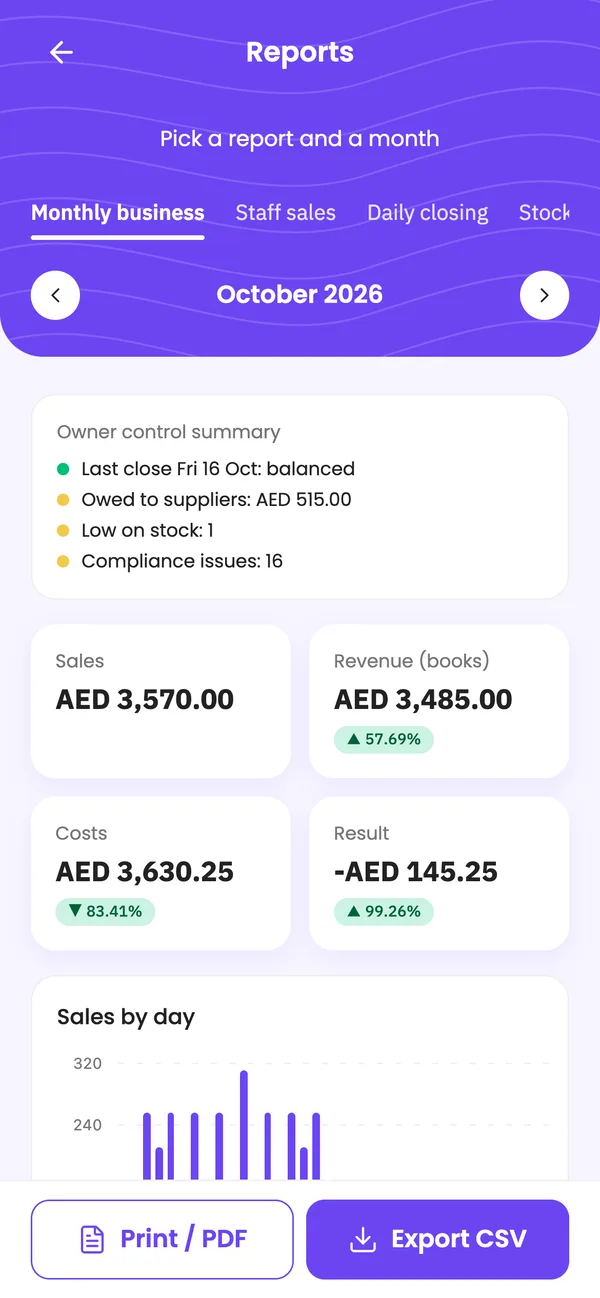
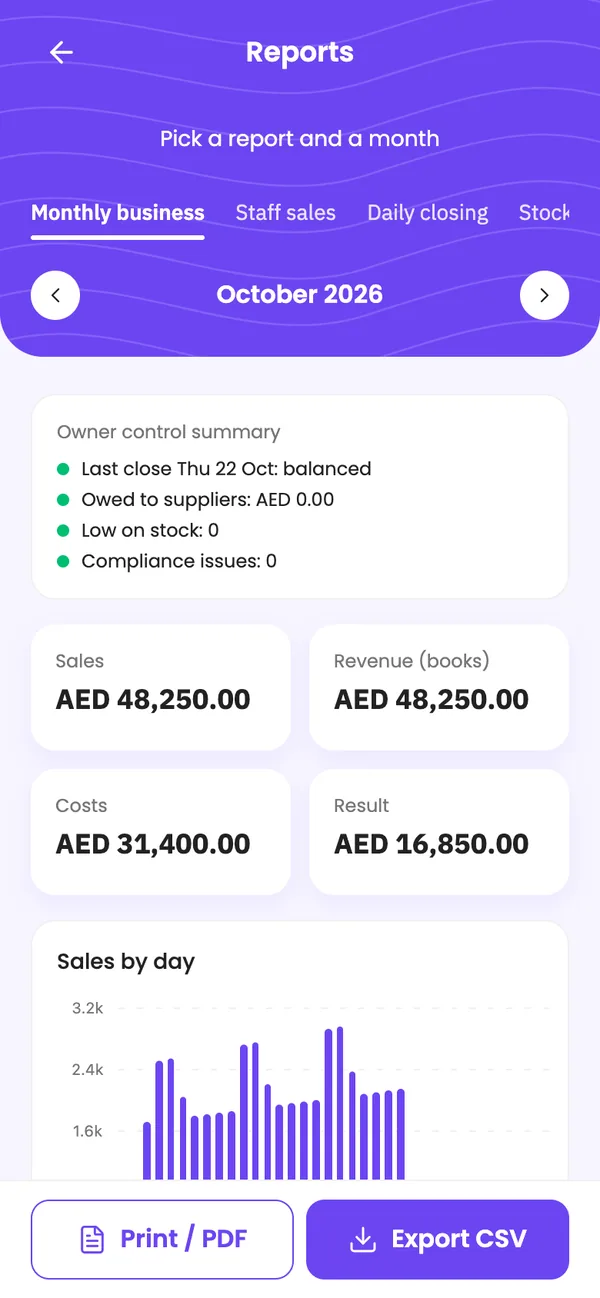
1.3 Website reports picture shows a healthy month (captured from the real app)

diff --git a/scripts/landing-shots/reports.spec.ts b/scripts/landing-shots/reports.spec.ts
@@ -1,0 +1,112 @@
+/**
+ * The website's reports picture (website brief 1.3: the old one showed a losing month): a demo barber shop's
+ * October with healthy numbers, captured from the real app. Sales AED 48,250 spread over the month, costs AED 31,400
+ * (rent, staff housing, bills…), result + AED 16,850, today's cash close balanced. Writes
+ * assets/images/landing/gents-reports.png (convert to the 600 × 1298 WebP with scripts/landing-shots/to-webp.py).
+ * Run on the local stack: npx playwright test -c scripts/landing-shots/playwright.config.ts reports
+ */
+import { admin, createOwner, dubaiDate, sellCustom } from '../../e2e/support/api';
+import { expect, test } from '../../e2e/support/fixtures';
+import { id, ownerOn } from '../../e2e/support/ui';
+
+const SALES = 4_825_000; // AED 48,250.00
+const EXPENSES: [string, number][] = [
+  ['rent', 1_500_000],
+  ['staff_accommodation', 600_000],
+  ['licences', 240_000],
+  ['electricity', 145_000],
+  ['marketing', 120_000],
+  ['staff_welfare', 120_000],
+  ['cleaning', 90_000],
+  ['transport', 80_000],
+  ['tea_food', 62_000],
+  ['repairs', 60_000],
+  ['internet_phone', 45_000],
+  ['uniforms', 40_000],
+  ['water', 38_000],
+]; // AED 31,400.00
+const PRICES = [3_500, 4_500, 5_500, 6_000, 8_000, 9_500, 12_000, 15_000];
+
+test('reports: a healthy month', async ({ page }) => {
+  test.setTimeout(900_000);
+  const owner = await createOwner('gents', { openingCash: 300_000, businessName: 'Al Barsha Gents' });
+  const today = dubaiDate(0);
+  const days = Number(today.slice(8, 10));
+  const month = today.slice(0, 8);
+  // Busier at the weekend (Fri/Sat), a little growth through the month; the day totals add up to the month exactly.
+  const weights = Array.from({ length: days }, (_, i) => {
+    const dow = new Date(`${month}${String(i + 1).padStart(2, '0')}T12:00:00Z`).getUTCDay();
+    return (dow === 5 || dow === 6 ? 1.45 : dow === 0 ? 1.15 : 1) * (1 + i * 0.012);
+  });
+  const sumW = weights.reduce((a, b) => a + b, 0);
+  let left = SALES;
+  for (let d = 0; d < days; d += 1) {
+    let target = d === days - 1 ? left : Math.round((SALES * weights[d]!) / sumW / 500) * 500;
+    left -= target;
+    const ids: string[] = [];
+    let n = 0;
+    while (target > 0) {
+      const price = Math.min(PRICES[(d * 7 + n * 3) % PRICES.length]!, target);
+      const sale = await sellCustom(owner.client, owner, n % 3 === 0 ? { card: price } : { cash: price });
+      ids.push(sale.sale_id);
+      target -= price;
+      n += 1;
+    }
+    const date = `${month}${String(d + 1).padStart(2, '0')}`;
+    if (date !== today) {
+      for (const q of [
+        admin.from('sales').update({ business_date: date }).in('id', ids),
+        admin.from('journal_entries').update({ business_date: date }).in('source_id', ids),
+      ]) {
+        const { error } = await q;
+        if (error) throw error;
+      }
+    }
+  }
+  // The month's costs, paid by bank (rent and the like) or from the till.
+  for (const [i, [key, amount]] of EXPENSES.entries()) {
+    const { data: cat } = await admin.from('expense_categories').select('id').eq('business_id', owner.businessId).eq('key', key).single();
+    const { data, error } = await owner.client.rpc('record_expense', {
+      p: { branch_id: owner.branchId, category_id: cat!.id, amount_minor: amount, method: amount > 100_000 ? 'bank' : 'cash', note: key },
+    });
+    if (error) throw error;
+    const expenseId = (data as { expense_id: string }).expense_id;
+    const date = `${month}${String(Math.min(1 + i * 2, days)).padStart(2, '0')}`;
+    if (date !== today) {
+      await admin.from('expenses').update({ business_date: date }).eq('id', expenseId);
+      await admin.from('journal_entries').update({ business_date: date }).eq('source_id', expenseId);
+    }
+  }
+  // Today's cash counted and approved: balanced.
+  const { data: preview, error: previewError } = await owner.client.rpc('closing_preview', { p_branch: owner.branchId });
+  if (previewError) throw previewError;
+  const { data: count, error: countError } = await owner.client.rpc('submit_cash_count', {
+    p: { branch_id: owner.branchId, counted_cash_minor: (preview as { expected_cash_minor: number }).expected_cash_minor, submit: true, drawer_closed_confirmed: true },
+  });
+  if (countError) throw countError;
+  const closingId = (count as { id?: string; closing_id?: string }).closing_id ?? (count as { id?: string }).id;
+  if (closingId) await owner.client.rpc('approve_cash_closing', { p_id: closingId });
+
+  // A salon that keeps its papers: every required licence and permit on file, valid for a year, with a photo.
+  const { data: slots } = await owner.client.rpc('compliance_status', { p_business: owner.businessId });
+  const missing = ((slots ?? []) as { doc_type: string; holder_type: string; branch_id: string | null; employee_id: string | null; status: string }[])
+    .filter((x) => x.status !== 'valid');
+  if (missing.length) {
+    const year = new Date(Date.now() + 400 * 86_400_000).toISOString().slice(0, 10);
+    const { error } = await admin.from('compliance_documents').insert(
+      missing.map((x, i) => ({
+        business_id: owner.businessId, branch_id: x.branch_id, employee_id: x.employee_id, holder_type: x.holder_type,
+        doc_type: x.doc_type, number: `D-${1000 + i}`, issued_on: `${month}01`, expires_on: year, reminder_days: 30,
+        evidence_path: `${owner.businessId}/compliance/demo-${i}.jpg`, active: true, version: 1,
+      })),
+    );
+    if (error) throw error;
+  }
+
+  await ownerOn(page, 'gents', owner.email, owner.password);
+  await page.goto('/reports');
+  await expect(id(page, 'report-kpi-sales-value')).toContainText('48,250');
+  await expect(page.getByText('Compliance issues: 0')).toBeVisible();
+  await page.waitForTimeout(2500); // the chart draws in
+  await page.screenshot({ path: 'assets/images/landing/gents-reports.png' });
+});

diff --git a/e2e/01-onboarding.spec.ts b/e2e/01-onboarding.spec.ts
@@ -6,20 +6,21 @@ test('fresh device → type → themed sign-in → owner sign-up → setup → e
   const email = `new-${uid()}@e2e.test`;
 
   await chooseType(page, mode);
-  // The sign-in is already in the chosen theme.
+  // The sign-in is already in the chosen theme, with no salon-type switch (a returning owner's salon has its type;
+  // website brief 1.6, 2026-10-22). Remembered across a reload.
   await expect(id(page, 'sign-in-submit')).toHaveCSS('background-color', THEME[mode].primaryAction);
-  // The switch on the sign-in re-themes; switching back restores it.
-  const other = mode === 'gents' ? 'ladies' : 'gents';
-  await id(page, `salon-type-${other}`).click();
-  await expect(id(page, 'sign-in-submit')).toHaveCSS('background-color', THEME[other].primaryAction);
-  await id(page, `salon-type-${mode}`).click();
-  await expect(id(page, 'sign-in-submit')).toHaveCSS('background-color', THEME[mode].primaryAction);
-
-  // Remembered across a reload.
+  await expect(id(page, 'salon-type-gents')).toHaveCount(0);
   await page.reload();
   await expect(id(page, 'sign-in-submit')).toHaveCSS('background-color', THEME[mode].primaryAction);
 
+  // Sign-up still offers the switch: it re-themes; switching back restores it. Back to sign-in from there.
   await id(page, 'link-sign-up').click();
+  const other = mode === 'gents' ? 'ladies' : 'gents';
+  await id(page, `salon-type-${other}`).click();
+  await expect(id(page, 'sign-up-submit')).toHaveCSS('background-color', THEME[other].primaryAction);
+  await id(page, `salon-type-${mode}`).click();
+  await expect(id(page, 'sign-up-submit')).toHaveCSS('background-color', THEME[mode].primaryAction);
+  await expect(id(page, 'sign-up-to-sign-in')).toBeVisible();
   await id(page, 'sign-up-submit').click();
   await expect(text(page, 'Required').first()).toBeVisible(); // validation before any request
   await field(page, 'name').fill('Test Owner');

diff --git a/scripts/landing-shots/playwright.config.ts b/scripts/landing-shots/playwright.config.ts
@@ -1,0 +1,10 @@
+import base from '../../playwright.config';
+
+/** One-off captures of real app screens for the website (not part of the test suite). */
+export default {
+  ...base,
+  testDir: '.',
+  globalSetup: '../../e2e/support/global-setup.ts',
+  outputDir: '../../e2e-results/landing-shots',
+  projects: [{ name: 'shots', use: { mode: 'gents', deviceScaleFactor: 2 } }],
+};

diff --git a/scripts/landing-shots/to-webp.py b/scripts/landing-shots/to-webp.py
@@ -1,0 +1,6 @@
+# The captured phone screen (390 × 844 at 2×) to the website's 600 × 1298 WebP.
+import sys
+from PIL import Image
+src, dst = sys.argv[1], sys.argv[2]
+Image.open(src).convert('RGB').resize((600, 1298), Image.LANCZOS).save(dst, 'WEBP', quality=82, method=6)
+print('saved', dst)
